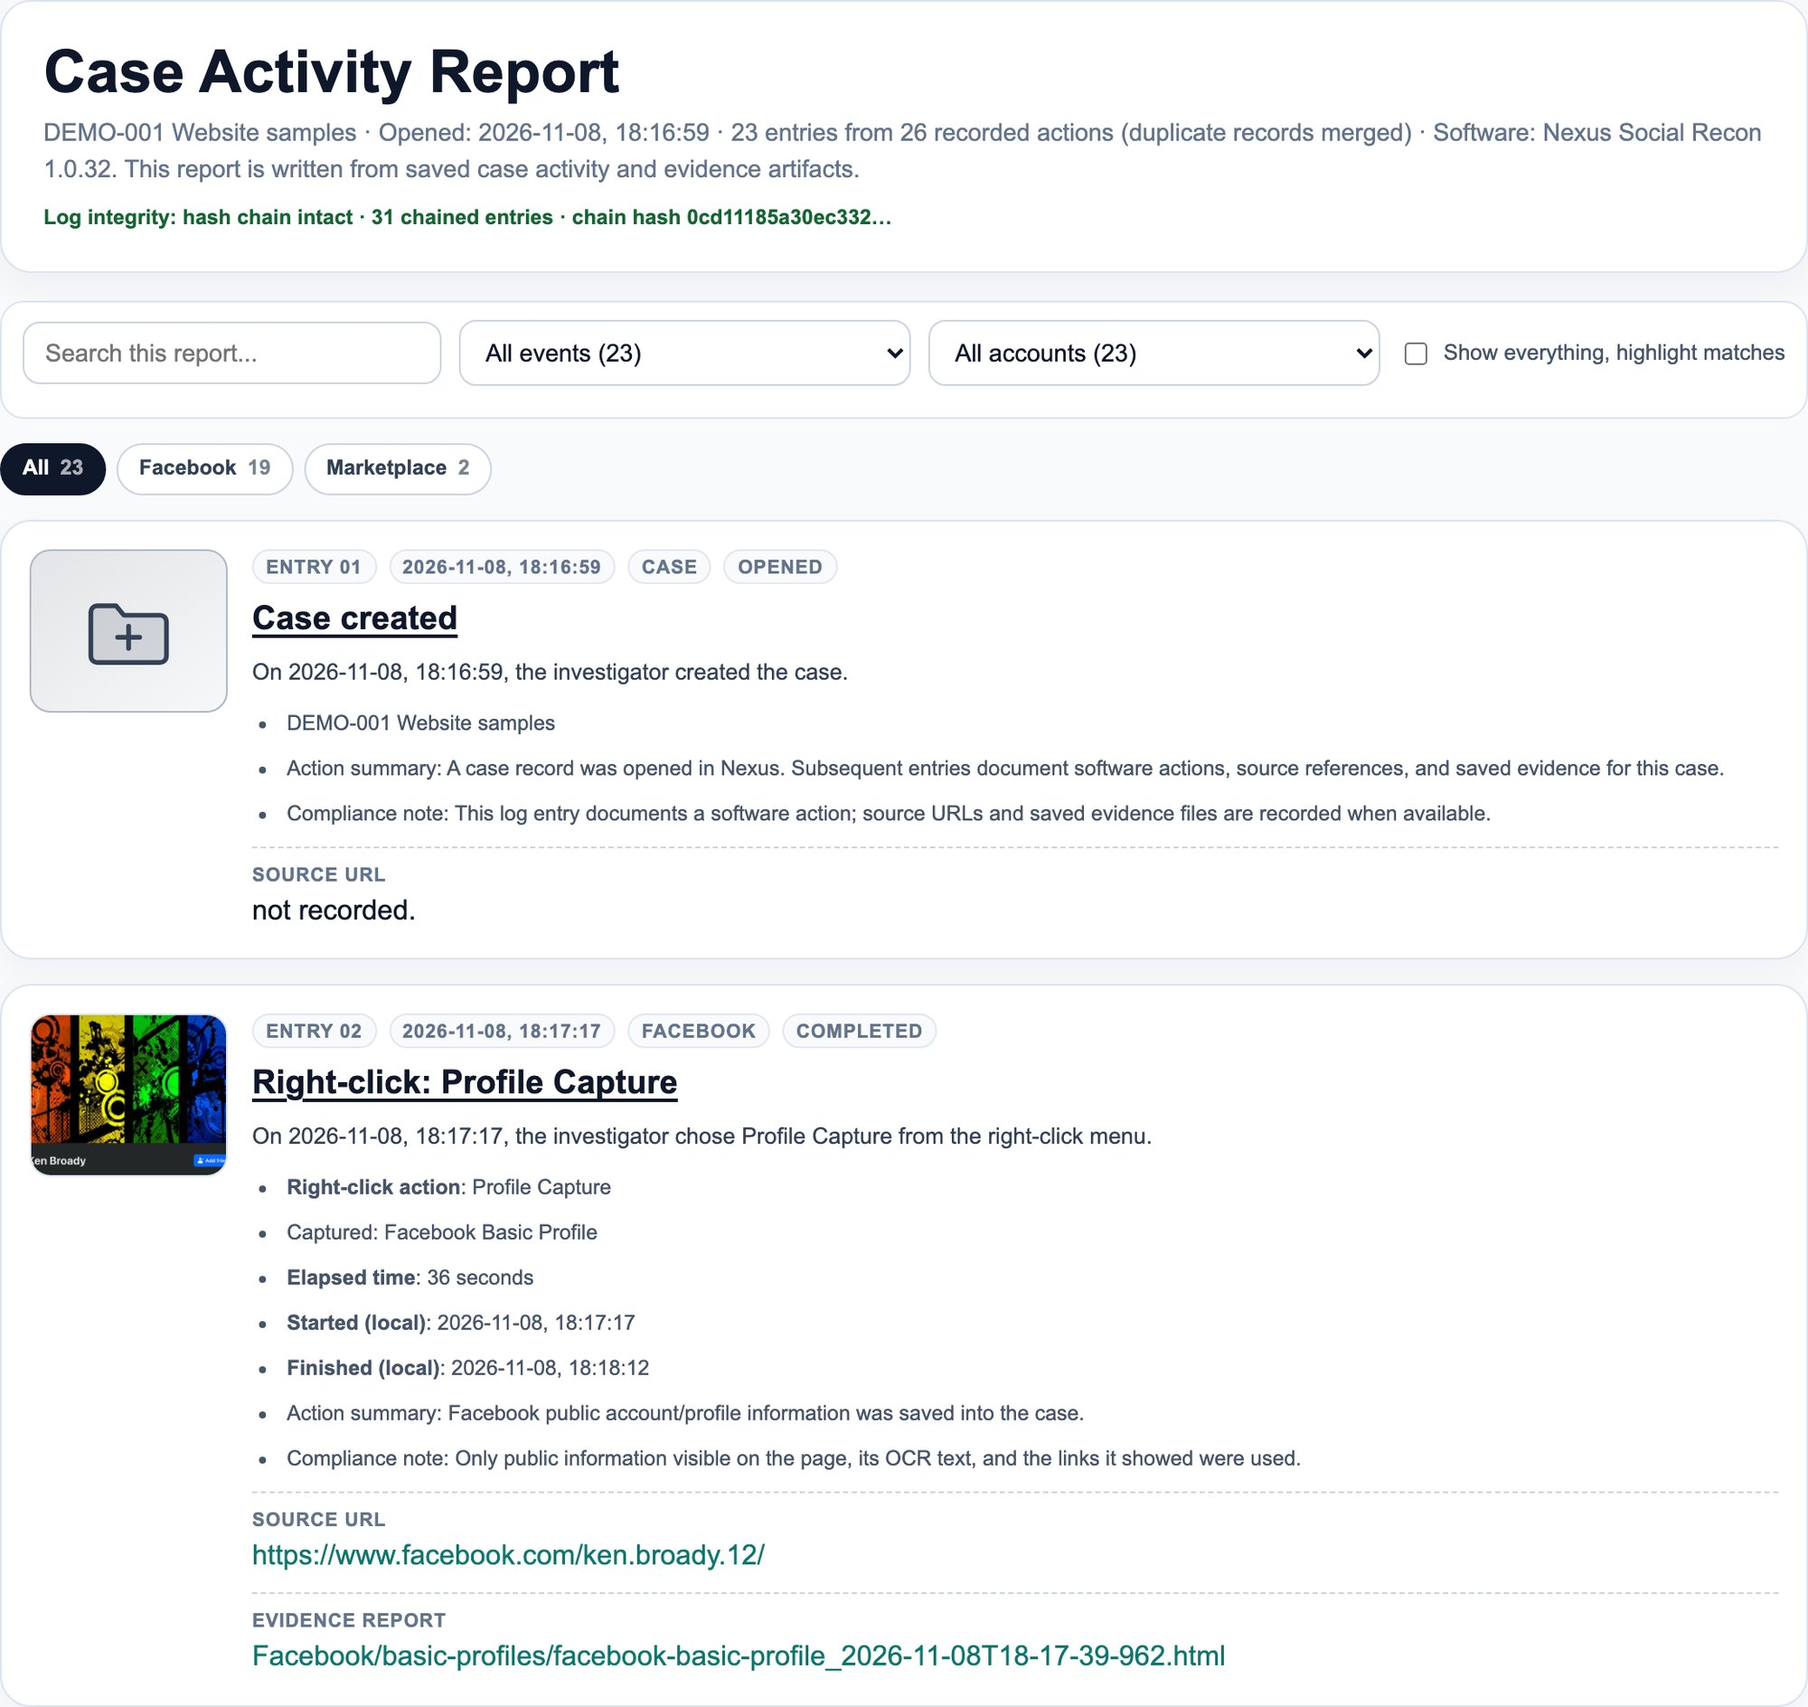
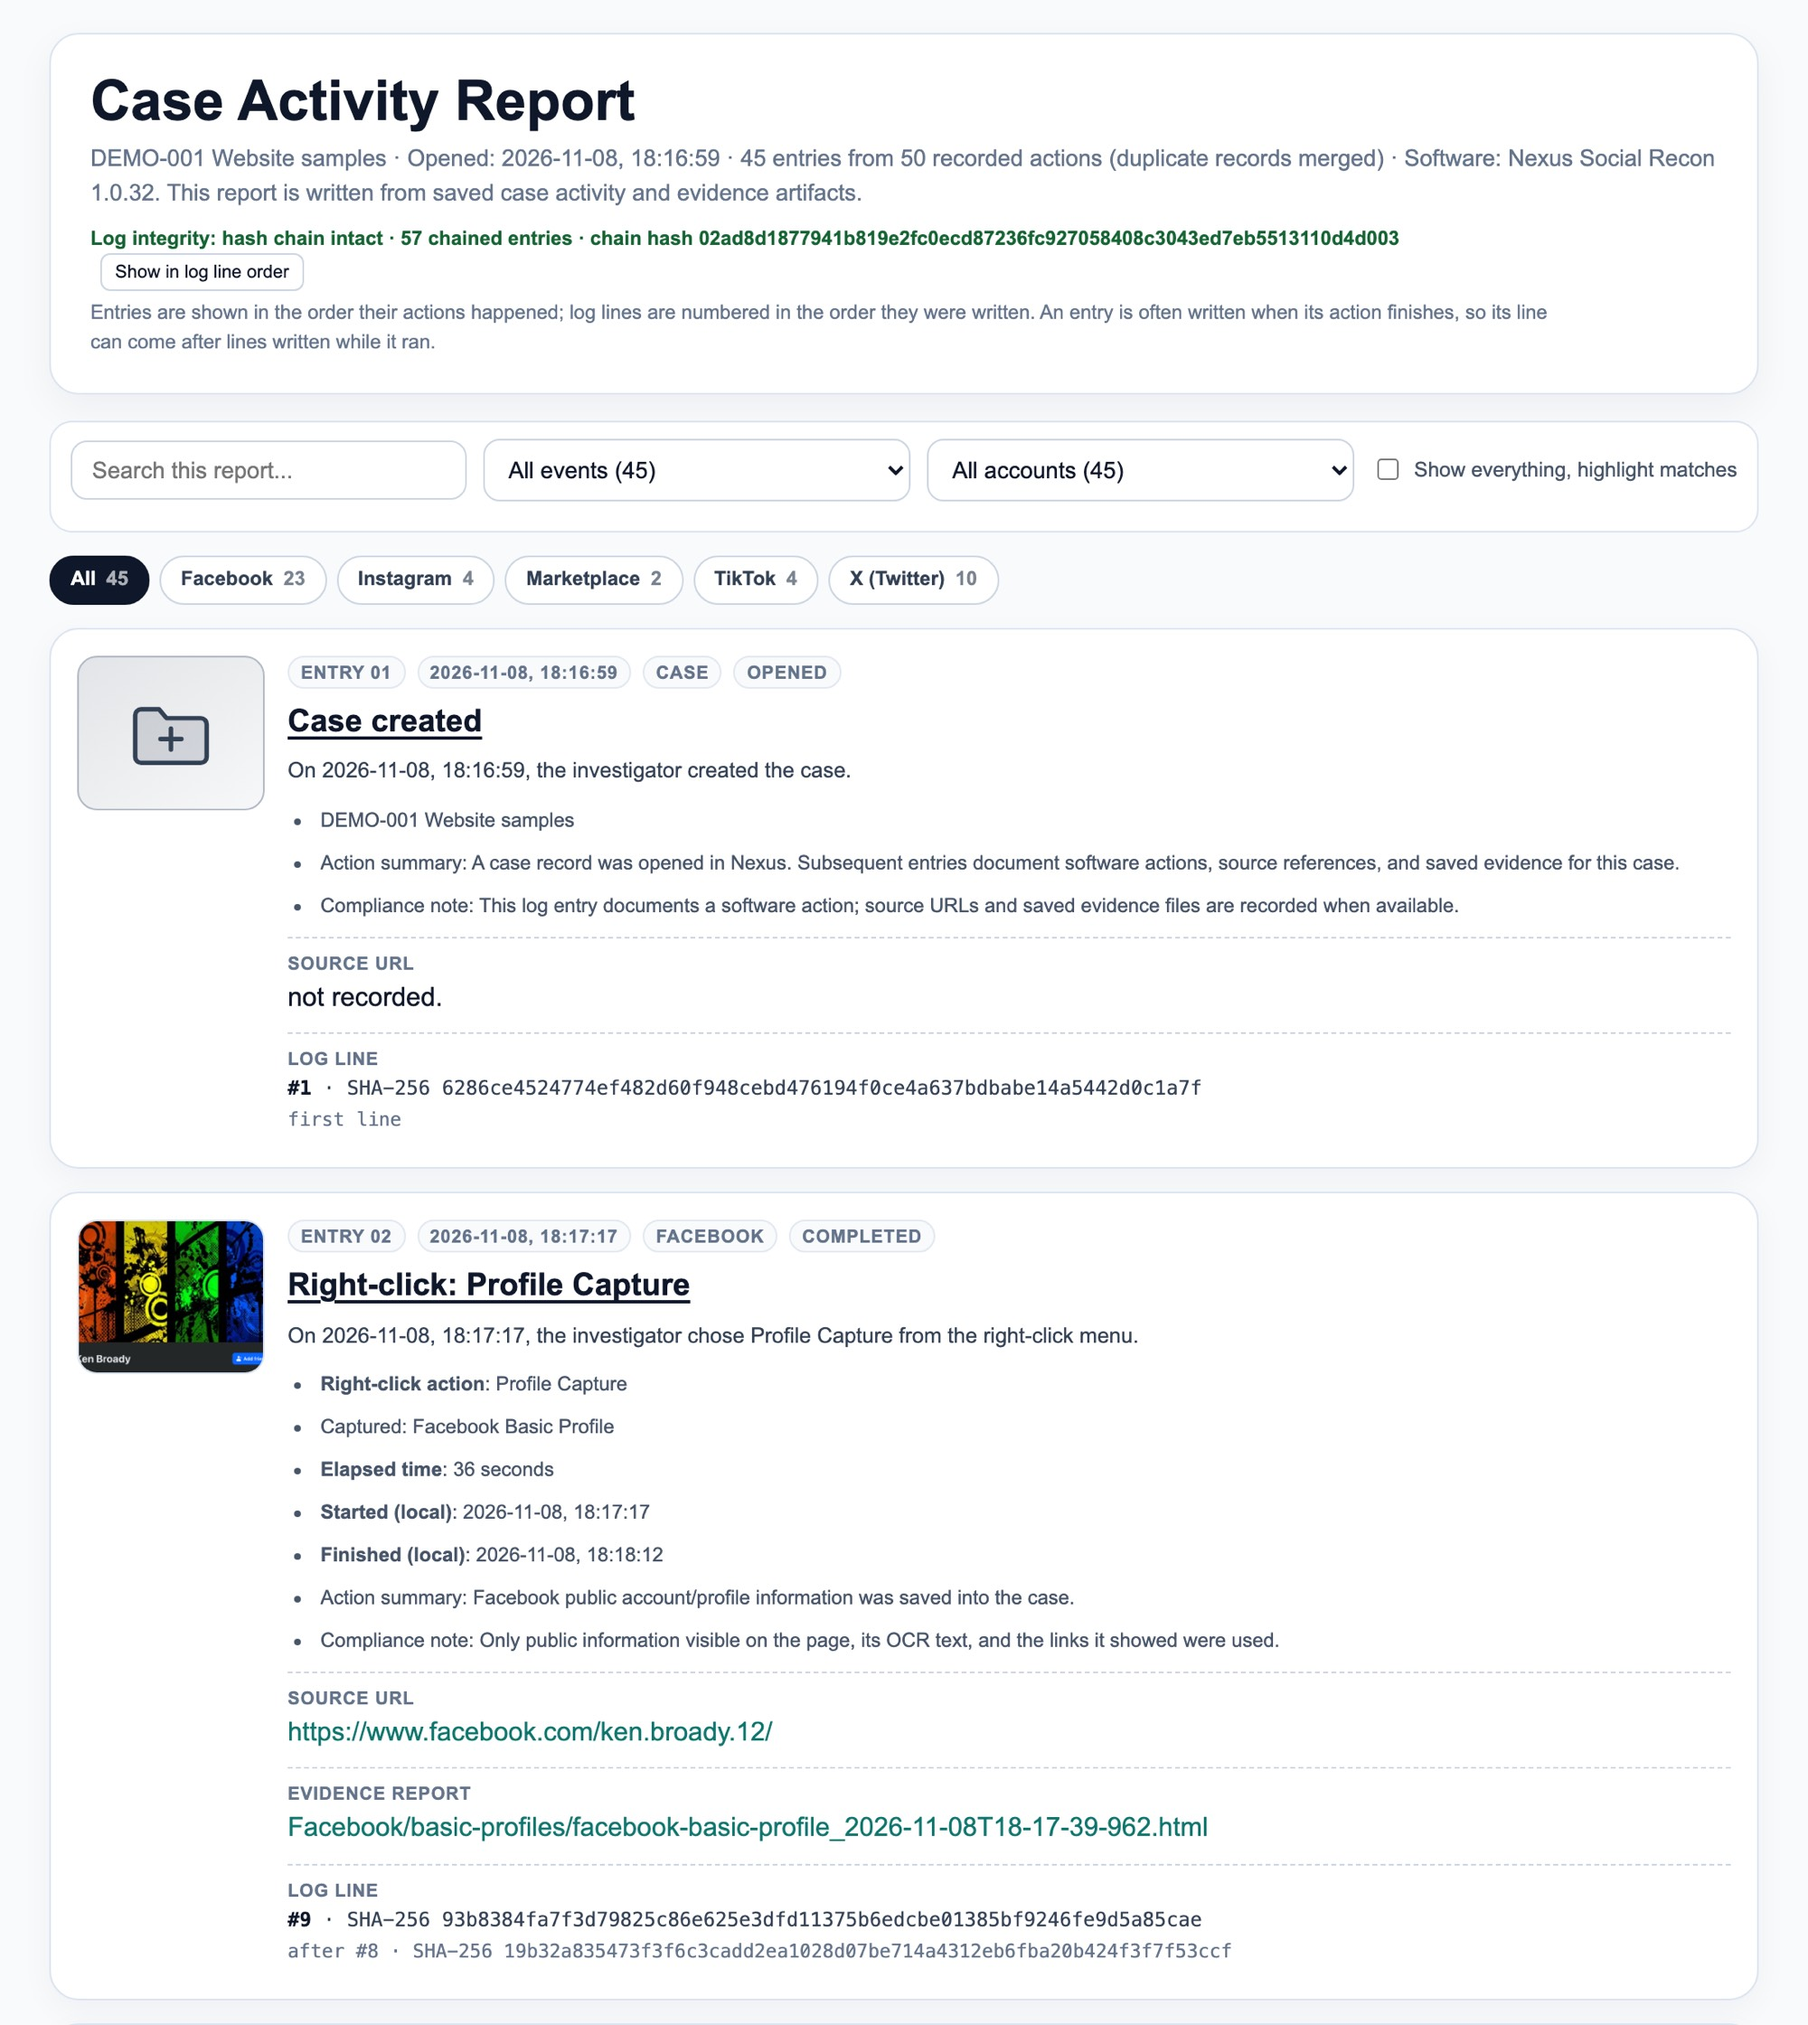
Social Recon page: Case Activity Report picture shows each entry's log line
Re-captured from the demo case after the app's report gained per-entry log
lines: the full SHA-256 of each line and of the line it follows, the whole
chain hash in the header, and the log line order button. Picture versioned;
its description (EN/FR/ES) mentions the log line; site-language.js version
bumped on every page.

diff --git a/products/nexus-social-recon.html b/products/nexus-social-recon.html
@@ -600,7 +600,7 @@
             <span class="card-icon" aria-hidden="true"><svg viewBox="0 0 24 24" fill="none" stroke="currentColor" stroke-width="1.6" stroke-linecap="round" stroke-linejoin="round"><circle cx="9" cy="8" r="3.2"/><path d="M3 20a6 6 0 0 1 12 0"/><path d="M16 5.2a3.2 3.2 0 0 1 0 5.6M18 14.5a6 6 0 0 1 3 5.5"/></svg></span>
             <h3>Person and activity reports</h3>
             <p>Single-person and activity reports, kept separate so nothing about other people is included.</p>
-            <div class="clipart shot"><img src="../assets/report-shots/person-and-activity-reports.jpg" data-lightbox-src="../assets/report-shots/person-and-activity-reports-full.jpg" alt="Demo case: Case Activity Report with its hash chain check" width="320" height="180" loading="lazy" decoding="async" /></div>
+            <div class="clipart shot"><img src="../assets/report-shots/person-and-activity-reports.jpg?v=2" data-lightbox-src="../assets/report-shots/person-and-activity-reports-full.jpg?v=2" alt="Demo case: Case Activity Report with its hash chain check and each entry’s log line" width="320" height="180" loading="lazy" decoding="async" /></div>
           </article>
           <article class="feature-card">
             <span class="card-icon" aria-hidden="true"><svg viewBox="0 0 24 24" fill="none" stroke="currentColor" stroke-width="1.6" stroke-linecap="round" stroke-linejoin="round"><path d="M5 4h14v16H5z"/><path d="M9 9h6M9 13h6M9 17h3"/></svg></span>
@@ -1290,7 +1290,7 @@ capture-001   &lt;64-character hash&gt;   https://&hellip;</pre>
       <span><a href="../index.html">Home</a> &middot; <a href="../how-nexus-is-different.html">Why Nexus</a> &middot; <a href="../compliance-data-privacy.html">Compliance</a> &middot; <a href="../terms-and-conditions.html">Terms</a> &middot; <a href="../privacy-policy.html">Privacy</a> &middot; <a href="../refund-policy.html">Refunds</a> &middot; <a href="mailto:sales@nexus-forensics.ca">sales@nexus-forensics.ca</a></span>
     </div>
   </footer>
-  <script src="../assets/site-language.js?v=20261109-12" defer></script>
+  <script src="../assets/site-language.js?v=20261109-13" defer></script>
   <script src="../assets/hero-animation.js?v=20261006-01" defer></script>
   <script src="../assets/site-lightbox.js?v=20261109-02" defer></script>
   <script src="../assets/ocr-demo.js?v=20261108-02" defer></script>

diff --git a/assets/site-language.js b/assets/site-language.js
@@ -1638,14 +1638,14 @@
       "Demo case: Facebook Captured Posts index with thumbnails, capture times and source links": "Dossier de démonstration : index des publications Facebook capturées, avec miniatures, heures de capture et liens sources",
       "Demo case: OCR text read from a post picture, with the captured comments": "Dossier de démonstration : texte OCR lu dans l’image d’une publication, avec les commentaires capturés",
       "Demo case: post metadata with the media SHA-256 hash": "Dossier de démonstration : métadonnées de la publication avec l’empreinte SHA-256 du média",
-      "Demo case: Case Activity Report with its hash chain check": "Dossier de démonstration : rapport d’activité du dossier et vérification de sa chaîne de hachage"
+      "Demo case: Case Activity Report with its hash chain check and each entry’s log line": "Dossier de démonstration : rapport d’activité du dossier, vérification de sa chaîne de hachage et ligne du journal de chaque entrée"
     },
     "es": {
       "Demo case: objects detected in a captured picture (zebra, giraffe, rhinoceros, ostrich)": "Caso de demostración: objetos detectados en una imagen capturada (cebra, jirafa, rinoceronte, avestruz)",
       "Demo case: Facebook Captured Posts index with thumbnails, capture times and source links": "Caso de demostración: índice de publicaciones de Facebook capturadas, con miniaturas, horas de captura y enlaces de origen",
       "Demo case: OCR text read from a post picture, with the captured comments": "Caso de demostración: texto OCR leído en la imagen de una publicación, con los comentarios capturados",
       "Demo case: post metadata with the media SHA-256 hash": "Caso de demostración: metadatos de la publicación con el hash SHA-256 del medio",
-      "Demo case: Case Activity Report with its hash chain check": "Caso de demostración: informe de actividad del caso con la verificación de su cadena de hash"
+      "Demo case: Case Activity Report with its hash chain check and each entry’s log line": "Caso de demostración: informe de actividad del caso con la verificación de su cadena de hash y la línea del registro de cada entrada"
     }
   };
   Object.entries(reportShotStrings).forEach(([lang, values]) => {

diff --git a/how-nexus-is-different.html b/how-nexus-is-different.html
@@ -243,7 +243,7 @@
       <span><a href="index.html">Home</a> &middot; <a href="products/nexus-social-recon.html">Nexus Social Recon</a> &middot; <a href="how-nexus-is-different.html">Why Nexus</a> &middot; <a href="compliance-data-privacy.html">Compliance</a> &middot; <a href="terms-and-conditions.html">Terms</a> &middot; <a href="privacy-policy.html">Privacy</a> &middot; <a href="refund-policy.html">Refunds</a> &middot; <a href="mailto:sales@nexus-forensics.ca">sales@nexus-forensics.ca</a></span>
     </div>
   </footer>
-  <script src="assets/site-language.js?v=20261109-12" defer></script>
+  <script src="assets/site-language.js?v=20261109-13" defer></script>
   <script src="assets/site-lightbox.js?v=20261109-02" defer></script>
 </body>
 </html>

diff --git a/pricing.html b/pricing.html
@@ -213,7 +213,7 @@
       <span><a href="index.html">Home</a> &middot; <a href="products/nexus-social-recon.html">Nexus Social Recon</a> &middot; <a href="pricing.html">Pricing</a> &middot; <a href="compliance-data-privacy.html">Compliance</a> &middot; <a href="terms-and-conditions.html">Terms</a> &middot; <a href="privacy-policy.html">Privacy</a> &middot; <a href="refund-policy.html">Refunds</a> &middot; <a href="mailto:sales@nexus-forensics.ca">sales@nexus-forensics.ca</a></span>
     </div>
   </footer>
-  <script src="assets/site-language.js?v=20261109-12" defer></script>
+  <script src="assets/site-language.js?v=20261109-13" defer></script>
   <script src="assets/site-lightbox.js?v=20261109-02" defer></script>
 </body>
 </html>

diff --git a/compliance-data-privacy.html b/compliance-data-privacy.html
@@ -332,7 +332,7 @@
       <span><a href="index.html">Home</a> &middot; <a href="products/nexus-social-recon.html">Nexus Social Recon</a> &middot; <a href="compliance-data-privacy.html">Compliance</a> &middot; <a href="terms-and-conditions.html">Terms</a> &middot; <a href="privacy-policy.html">Privacy</a> &middot; <a href="refund-policy.html">Refunds</a> &middot; <a href="mailto:sales@nexus-forensics.ca">sales@nexus-forensics.ca</a></span>
     </div>
   </footer>
-  <script src="assets/site-language.js?v=20261109-12" defer></script>
+  <script src="assets/site-language.js?v=20261109-13" defer></script>
   <script src="assets/site-lightbox.js?v=20261109-02" defer></script>
 </body>
 </html>

diff --git a/products.html b/products.html
@@ -137,7 +137,7 @@
       <span><a href="index.html">Home</a> &middot; <a href="products/nexus-social-recon.html">Nexus Social Recon</a> &middot; <a href="compliance-data-privacy.html">Compliance</a> &middot; <a href="terms-and-conditions.html">Terms</a> &middot; <a href="privacy-policy.html">Privacy</a> &middot; <a href="refund-policy.html">Refunds</a> &middot; <a href="mailto:sales@nexus-forensics.ca">sales@nexus-forensics.ca</a></span>
     </div>
   </footer>
-  <script src="assets/site-language.js?v=20261109-12" defer></script>
+  <script src="assets/site-language.js?v=20261109-13" defer></script>
   <script src="assets/site-lightbox.js?v=20261109-02" defer></script>
 </body>
 </html>

diff --git a/privacy-policy.html b/privacy-policy.html
@@ -88,7 +88,7 @@
       <span><a href="index.html">Home</a> &middot; <a href="products/nexus-social-recon.html">Nexus Social Recon</a> &middot; <a href="compliance-data-privacy.html">Compliance</a> &middot; <a href="terms-and-conditions.html">Terms</a> &middot; <a href="privacy-policy.html">Privacy</a> &middot; <a href="refund-policy.html">Refunds</a> &middot; <a href="mailto:sales@nexus-forensics.ca">sales@nexus-forensics.ca</a></span>
     </div>
   </footer>
-  <script src="assets/site-language.js?v=20261109-12" defer></script>
+  <script src="assets/site-language.js?v=20261109-13" defer></script>
   <script src="assets/site-lightbox.js?v=20261109-02" defer></script>
 </body>
 </html>

diff --git a/refund-policy.html b/refund-policy.html
@@ -85,7 +85,7 @@
       <span><a href="index.html">Home</a> &middot; <a href="products/nexus-social-recon.html">Nexus Social Recon</a> &middot; <a href="compliance-data-privacy.html">Compliance</a> &middot; <a href="terms-and-conditions.html">Terms</a> &middot; <a href="privacy-policy.html">Privacy</a> &middot; <a href="refund-policy.html">Refunds</a> &middot; <a href="mailto:sales@nexus-forensics.ca">sales@nexus-forensics.ca</a></span>
     </div>
   </footer>
-  <script src="assets/site-language.js?v=20261109-12" defer></script>
+  <script src="assets/site-language.js?v=20261109-13" defer></script>
   <script src="assets/site-lightbox.js?v=20261109-02" defer></script>
 </body>
 </html>

diff --git a/terms-and-conditions.html b/terms-and-conditions.html
@@ -87,7 +87,7 @@
       <span><a href="index.html">Home</a> &middot; <a href="products/nexus-social-recon.html">Nexus Social Recon</a> &middot; <a href="compliance-data-privacy.html">Compliance</a> &middot; <a href="terms-and-conditions.html">Terms</a> &middot; <a href="privacy-policy.html">Privacy</a> &middot; <a href="refund-policy.html">Refunds</a> &middot; <a href="mailto:sales@nexus-forensics.ca">sales@nexus-forensics.ca</a></span>
     </div>
   </footer>
-  <script src="assets/site-language.js?v=20261109-12" defer></script>
+  <script src="assets/site-language.js?v=20261109-13" defer></script>
   <script src="assets/site-lightbox.js?v=20261109-02" defer></script>
 </body>
 </html>

diff --git a/products/lens-witness.html b/products/lens-witness.html
@@ -185,7 +185,7 @@
       <span><a href="nexus-social-recon.html">Nexus Social Recon</a> &middot; <a href="../compliance-data-privacy.html">Compliance</a> &middot; <a href="../terms-and-conditions.html">Terms</a> &middot; <a href="../privacy-policy.html">Privacy</a> &middot; <a href="../refund-policy.html">Refunds</a> &middot; <a href="mailto:sales@nexus-forensics.ca">sales@nexus-forensics.ca</a></span>
     </div>
   </footer>
-  <script src="../assets/site-language.js?v=20261109-12" defer></script>
+  <script src="../assets/site-language.js?v=20261109-13" defer></script>
   <script src="../assets/site-lightbox.js?v=20261109-02" defer></script>
 </body>
 </html>

diff --git a/index.html b/index.html
@@ -268,7 +268,7 @@
       <span><a href="compliance-data-privacy.html">Compliance</a> &middot; <a href="terms-and-conditions.html">Terms</a> &middot; <a href="privacy-policy.html">Privacy</a> &middot; <a href="refund-policy.html">Refunds</a> &middot; <a href="mailto:sales@nexus-forensics.ca">sales@nexus-forensics.ca</a></span>
     </div>
   </footer>
-  <script src="assets/site-language.js?v=20261109-12" defer></script>
+  <script src="assets/site-language.js?v=20261109-13" defer></script>
   <script src="assets/hero-animation.js?v=20261006-01" defer></script>
   <script src="assets/site-lightbox.js?v=20261109-02" defer></script>
 </body>
